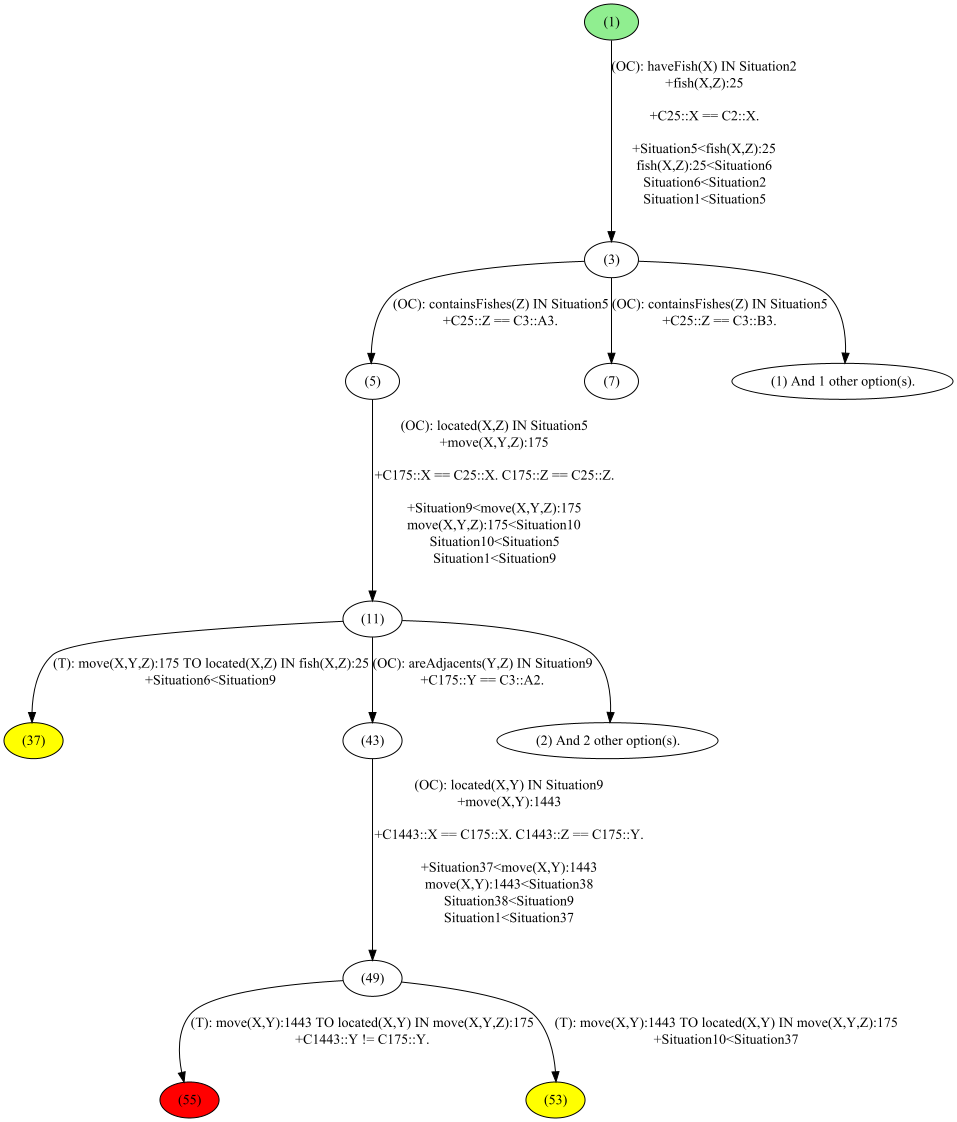
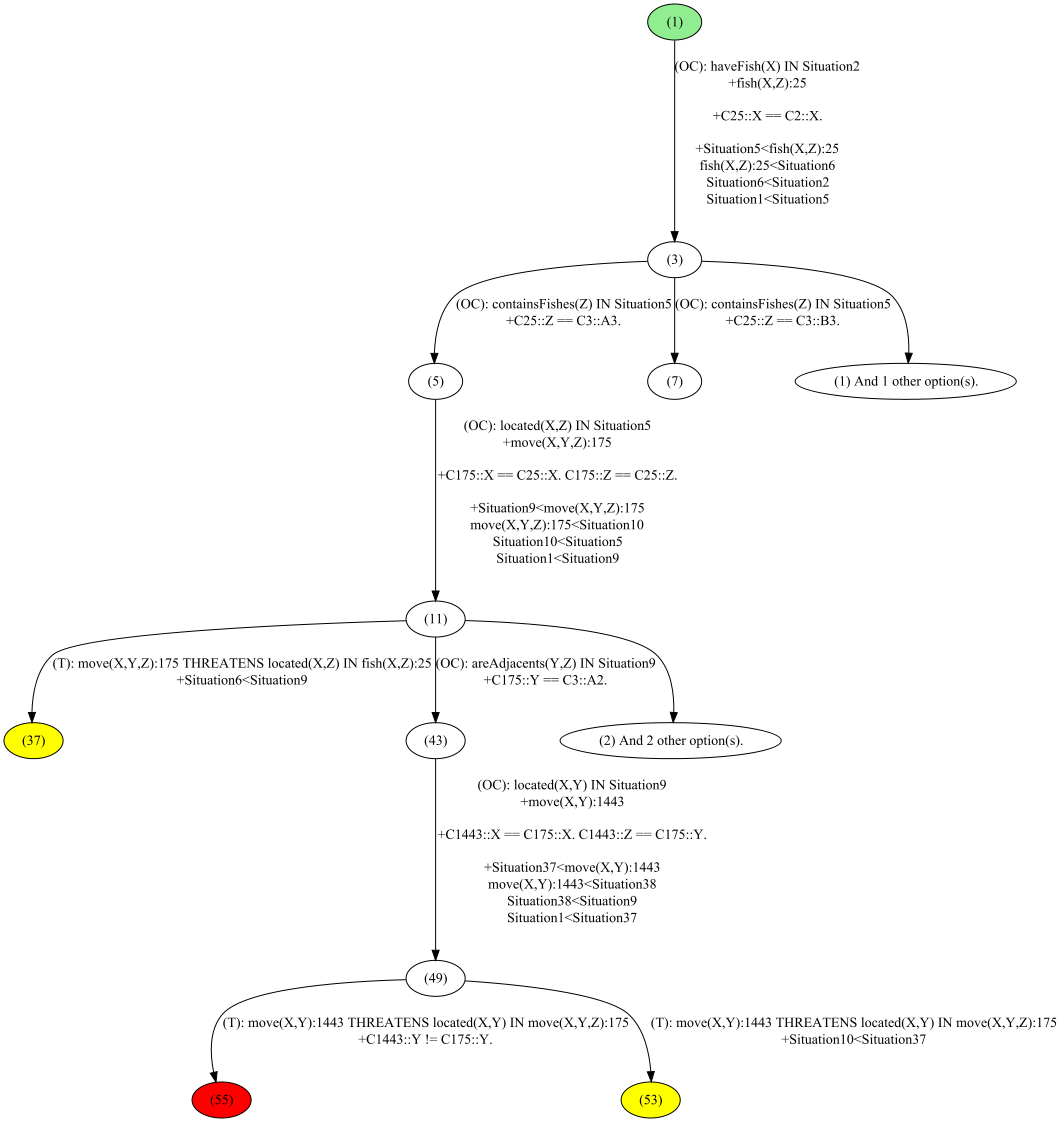
feat: find non-codenotation constraints for circumvention operator

diff --git a/src/main/java/aStar_planning/pop_with_norms/components/NormativePlan.java b/src/main/java/aStar_planning/pop_with_norms/components/NormativePlan.java
@@ -137,7 +137,14 @@ public class NormativePlan extends Plan {
 
             for (RegulativeNorm norm : toEvaluate) {
                 if (isApplicable(situation, norm)) {
-                    Context applicableContext = getApplicableContext(norm, situation);
+                    Context applicableContext;
+
+                    try{
+                        applicableContext = getApplicableContext(norm, situation);
+                    }catch(UnapplicableNormException e){
+                        continue;
+                    }
+
                     this.addNormativeFlawsIfAny(situation, norm, applicableContext);
                 }
             }
@@ -271,6 +278,7 @@ public class NormativePlan extends Plan {
                 addNormativeFlaw(situation, norm, applicableContext);
             }else{
                 NormativeAction forbiddenAction = (NormativeAction) norm.getNormConsequences();
+
                 boolean actionExists = this.getSteps()
                         .stream()
                         .filter(step -> step.getAction().sameName(forbiddenAction))
@@ -313,35 +321,11 @@ public class NormativePlan extends Plan {
             try {
                 flawedNorm.getApplicableCodenotations(this, situation, conditionContext);
             } catch(UnapplicableNormException e){
-                logger.info("Inapplicable exception found for : " + flawedNorm + " : " + situation);
                 return situation;
             }
         }
 
-        logger.info(" did not found inapplicable situation for norm : " + flawedNorm);
         return null;
-    }
-    private boolean actionIsPresentAsItShould(
-            RegulativeNorm norm,
-            PopSituation situation,
-            Context obligationContext
-    ) {
-        NormativeAction obligatoryAction = (NormativeAction) norm.getNormConsequences();
-
-        for (Step step : this.getSteps()) {
-            if (!step.getActionInstance().getName().equals(obligatoryAction.getLabel())) {
-                continue;
-            }
-
-            Action stepAction = (Action) step.getActionInstance().getLogicalEntity();
-            Context stepContext = step.getActionInstance().getContext();
-
-            if (obligatoryAction.unify(obligationContext, stepAction, stepContext, this.getCc())) {
-                return true;
-            }
-        }
-
-        return false;
     }
 
     /**
@@ -383,7 +367,6 @@ public class NormativePlan extends Plan {
     /**
      * Verifies if a norm is applicable by verifying all of its conditions, which either demands
      * some constitutive norm, or some proposition to be necessarily true
-     *
      * @param situation : the situation on which we want to check the norm's applicability
      *                  conditions
      * @param norm      : the norm whose applicability conditions will be tested.
@@ -401,10 +384,12 @@ public class NormativePlan extends Plan {
                         normContext,
                         this.getCc().copy()
                 )) {
+                    // logger.error("Not applicable because ROLE : " + condition + " is not ok");
                     return false;
                 }
             } else {
                 if (!isSatisfiedInSituation(situation, conditionContext, condition)) {
+                    //logger.error("Not applicable because CONDITION : " + condition + " is not ok");
                     return false;
                 }
             }
@@ -438,14 +423,15 @@ public class NormativePlan extends Plan {
                     assertedProposition.getContext(),
                     cc
             )) {
-                if (condition.isNegation() == assertedProposition.getAtom().isNegation()) {
+                // TODO: Double check this.
+                if (!condition.isNegation()) {
                     isUnifiedOnce = true;
-                    break;
                 }
+                break;
             }
         }
 
-        return isUnifiedOnce;
+        return condition.isNegation() ? !isUnifiedOnce : isUnifiedOnce;
     }
 
     /**
@@ -563,7 +549,7 @@ public class NormativePlan extends Plan {
 
             }
         }
-        throw new RuntimeException("Applicable context could not be found for : " + norm);
+        throw new UnapplicableNormException(norm.getNormConditions(), situation);
     }
 
     /**
@@ -787,7 +773,7 @@ public class NormativePlan extends Plan {
                             this.getCc().copy())
                     ) {
                         additions.add(new CodenotationConstraints(List.of(
-                                new Codenotation(true,
+                                new Codenotation(!missingCondition.getAtom().isNegation(),
                                         new ContextualTerm(
                                                 openCondition.getProposition().getContext(),
                                                 onlyTermToCodenotate),

diff --git a/src/main/java/aStar_planning/pop_with_norms/resolvers/MissingProhibitionActionResolver.java b/src/main/java/aStar_planning/pop_with_norms/resolvers/MissingProhibitionActionResolver.java
@@ -30,7 +30,7 @@ public class MissingProhibitionActionResolver {
     Optional<Step> forbiddenStep = getForbiddenStepFromPlan(plan, flaw, targetStep);
 
     PartialOrder stepBeforeSituation = new PartialOrder(
-        forbiddenStep.get(),
+        plan.getTc().getFollowingSituation(forbiddenStep.get()),
         flaw.getApplicableSituation());
 
     TemporalConstraints temporalChanges = new TemporalConstraints(new ArrayList<>(
@@ -45,7 +45,7 @@ public class MissingProhibitionActionResolver {
         flaw.getFlawedNorm()
     );
 
-    if (inapplicableSituation == null) {
+    if (inapplicableSituation == null || plan.getFinalSituation().equals(inapplicableSituation)) {
       return new ArrayList<>();
     }
 
@@ -54,8 +54,7 @@ public class MissingProhibitionActionResolver {
     Optional<Step> forbiddenStep = getForbiddenStepFromPlan(plan, flaw, targetStep);
 
     PartialOrder stepAfterInapplicableSituation = new PartialOrder(
-        forbiddenStep.get(),
-        inapplicableSituation);
+        inapplicableSituation, plan.getTc().getPrecedingSituation(forbiddenStep.get()));
     TemporalConstraints temporalChanges = new TemporalConstraints(new ArrayList<>(
         List.of(stepAfterInapplicableSituation)));
 
@@ -66,7 +65,6 @@ public class MissingProhibitionActionResolver {
       NormativePlan plan,
       NormativeFlaw flaw,
       Step targetStep) {
-    logger.info("Fetching step " + targetStep + " in " + plan);
 
     Optional<Step> forbiddenStep = plan.getSteps().stream()
         .filter(step -> step.equals(targetStep))

diff --git a/src/main/java/aStar_planning/pop/resolvers/OpenConditionResolver.java b/src/main/java/aStar_planning/pop/resolvers/OpenConditionResolver.java
@@ -4,6 +4,7 @@ import aStar.Operator;
 import aStar_planning.pop.mapper.PlanModificationMapper;
 import aStar_planning.pop.components.OpenCondition;
 import aStar_planning.pop.utils.TemporalConstraintsBuilder;
+import constraints.CodenotationConstraints;
 import constraints.PartialOrder;
 import aStar_planning.pop.components.Plan;
 import aStar_planning.pop.components.PopSituation;
@@ -47,9 +48,14 @@ public class OpenConditionResolver {
                         openCondition.getProposition(), plan.getCc()))
                 .forEach(codenotationConstraintsList -> {
                     codenotationConstraintsList.forEach(codenotationConstraints -> {
-                        Operator toAdd = PlanModificationMapper
-                                .from(openCondition, codenotationConstraints);
-
+                        Operator toAdd;
+                        if(openCondition.getProposition().getAtom().isNegation()){
+                            toAdd = PlanModificationMapper
+                                    .from(openCondition, codenotationConstraints.reverse());
+                        } else {
+                            toAdd = PlanModificationMapper
+                                    .from(openCondition, codenotationConstraints);
+                        }
                         operators.add(toAdd);
                     });
                 });

diff --git a/src/main/java/aStar_planning/pop_with_norms/resolvers/CircumventionOperator.java b/src/main/java/aStar_planning/pop_with_norms/resolvers/CircumventionOperator.java
@@ -22,15 +22,13 @@ public class CircumventionOperator {
         List<Operator> operators = new ArrayList<>();
 
         flaw.getFlawedNorm().getNormConditions().getConditions().forEach(condition -> {
-            NormativePlan applicablePlan = getApplicablePlan(plan, flaw);
+            // NormativePlan applicablePlan = getApplicablePlan(plan, flaw);
 
             OpenCondition toSolve = createReverseOpenCondition(
                     plan, flaw, possibleActions, condition
             );
 
-            operators.addAll(OpenConditionResolver.byCreation(
-                    applicablePlan, toSolve, possibleActions
-            ));
+            operators.addAll(plan.resolve(toSolve, possibleActions));
         });
 
         return operators;
@@ -71,11 +69,13 @@ public class CircumventionOperator {
             List<Action> possibleActions,
             Atom condition
     ){
+        /*
         CodenotationConstraints applicableCodenotations= flaw.getFlawedNorm()
                 .getApplicableCodenotations(plan, flaw.getApplicableSituation(),
                         flaw.getContext())
                 .fuseWith(plan.getCc());
 
+        */
         ContextualAtom toAssert = new ContextualAtom(
                 new Context(),
                 new Atom(!condition.isNegation(), condition.getPredicate())

diff --git a/src/main/java/constraints/CodenotationConstraints.java b/src/main/java/constraints/CodenotationConstraints.java
@@ -384,4 +384,25 @@ public class CodenotationConstraints extends Graphic {
 
         return stringBuilder.toString();
     }
+
+    /**
+     * Changes all codenotations to non-codenotations and vice-versa. Mostly this is needed to
+     * avoid making certain conditions necessarily true. You just take how it is made true, and
+     * reverse it, and ... voilà !
+     * @return a copy of the current codenotation constraint with each non-codenotation turning
+     * into codenotations, and vice versa.
+     */
+    public CodenotationConstraints reverse() {
+        logger.info("Reversing " + this);
+        List<Codenotation> reversedCodenotations =  this.codenotations
+                .stream()
+                .map(codenotation -> new Codenotation(
+                        !codenotation.isCodenotation(),
+                        codenotation.getLeft(),
+                        codenotation.getRight())
+                )
+                .collect(Collectors.toList());
+
+        return new CodenotationConstraints(reversedCodenotations);
+    }
 }

diff --git a/src/test/java/iriela/Iriela_IT.java b/src/test/java/iriela/Iriela_IT.java
@@ -52,7 +52,7 @@ public class Iriela_IT {
 
     /* === PROHIBITIONS === */
     @Test
-    public void findSolution_forFish__noTrespassing_inSacredZone_ok() throws IOException {
+    public void findSolution_forFish__prohibitedTrespassing_inSacredZone_ok() throws IOException {
         NormativePlanningProblem problem = PlanningProblemFactory
                     .irielaProblem_noTrespassing();
 
@@ -62,7 +62,7 @@ public class Iriela_IT {
     }
 
     @Test
-    public void findSolution_forFish__noFishingWithoutLicense_ok() throws IOException {
+    public void findSolution_forFish__prohibitedFishingWithoutLicense_ok() throws IOException {
         NormativePlanningProblem problem = PlanningProblemFactory
                 .irielaProblem_noFishingWithoutLicense();
 

diff --git a/src/main/java/aStar_planning/pop/PopPlanningProblem.java b/src/main/java/aStar_planning/pop/PopPlanningProblem.java
@@ -80,7 +80,7 @@ public class PopPlanningProblem extends Problem implements AStarProblem {
 
   @Override
   public State apply(Operator operator, State state) {
-     logger.info("___APPLYING___ "+operator);
+     logger.debug("___APPLYING___ "+operator);
      logger.info("\n___GOT___ "+((Plan)state).applyPlanModification(operator));
     return ((Plan) state).applyPlanModification(operator);
   }
@@ -93,7 +93,7 @@ public class PopPlanningProblem extends Problem implements AStarProblem {
 
   @Override
   public double evaluateOperator(Operator transition) {
-    return 0.1;
+    return 1;
   }
 
   @Override

diff --git a/src/main/java/aStar_planning/pop_with_norms/components/NormativeFlaw.java b/src/main/java/aStar_planning/pop_with_norms/components/NormativeFlaw.java
@@ -23,13 +23,8 @@ public class NormativeFlaw implements Flaw {
 
     @Override
     public String toString() {
-        String flawName = switch(flawedNorm.getDeonticOperator()){
-            case OBLIGATION -> "\n\tMISSING OBLIGATION";
-            case PROHIBITION -> "\n\tMISSING PROHIBITION";
-            case PERMISSION -> "\n\tMISSING PERMISSION";
-        };
 
-        return flawName + " : " +
+        return "(NORM): " +
                 this.flawedNorm +
                 " IN " + this.applicableSituation
                 + "WITH CONTEXT " + this.context;

diff --git a/src/main/java/aStar_planning/pop_with_norms/resolvers/MissingProhibitionResolver.java b/src/main/java/aStar_planning/pop_with_norms/resolvers/MissingProhibitionResolver.java
@@ -21,7 +21,6 @@ public class MissingProhibitionResolver {
         operators.addAll(CircumventionOperator.circumvent(plan, flaw, possibleActions));
 
         if(operators.isEmpty()){
-            System.out.println(" OPERATORS ARE EMPTY ");
             throw new RuntimeException("Operators are empty, cannot resolve prohibition flaw");
         }
         return operators;

diff --git a/src/main/java/aStar_planning/pop/components/Threat.java b/src/main/java/aStar_planning/pop/components/Threat.java
@@ -23,7 +23,7 @@ public class Threat implements Flaw {
         return stringBuilder
                 .append("(T): ")
                 .append(this.destroyer)
-                .append(" TO ")
+                .append(" THREATENS ")
                 .append(this.proposition)
                 .append(" IN ")
                 .append(this.threatened)
